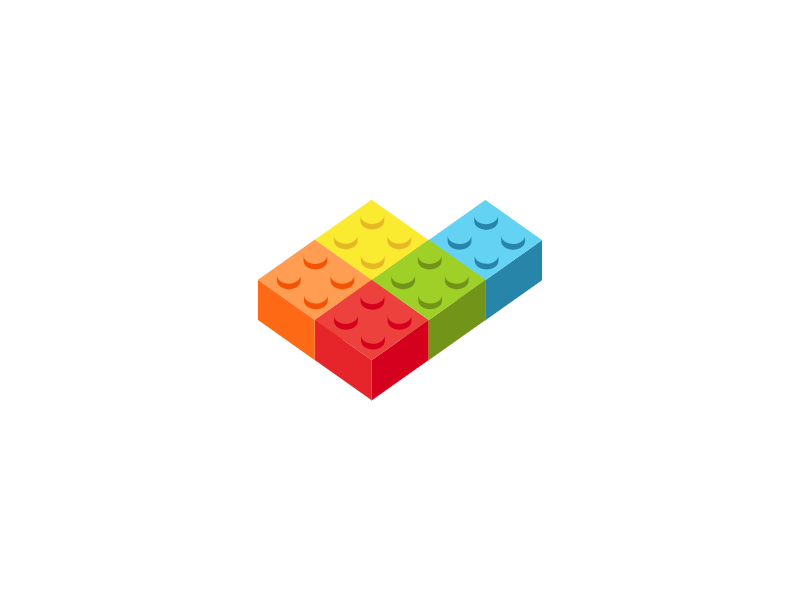
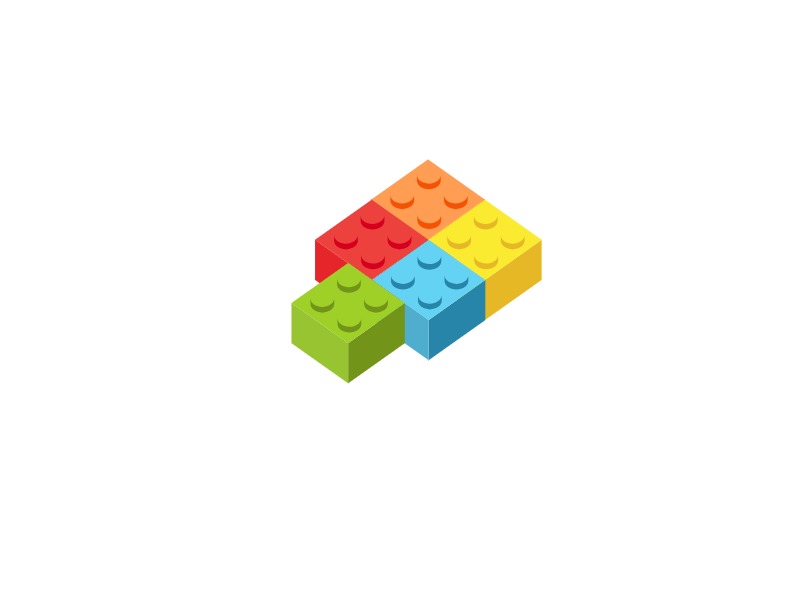
:wrench:

Changed region(s): [[0.3125, 0.27, 0.6875, 0.66]]

diff --git a/packages/skia/src/skia/web/JsiSkottieFactory.ts b/packages/skia/src/skia/web/JsiSkottieFactory.ts
@@ -12,7 +12,7 @@ export class JsiSkottieFactory extends Host implements SkottieFactory {
   }
 
   Make(json: string): SkSkottieAnimation {
-    const animation = this.CanvasKit.MakeAnimation(json);
+    const animation = this.CanvasKit.MakeManagedAnimation(json);
     if (!animation) {
       throw new Error("Failed to create SkottieAnimation");
     }

diff --git a/packages/skia/src/renderer/__tests__/e2e/Skottie.spec.tsx b/packages/skia/src/renderer/__tests__/e2e/Skottie.spec.tsx
@@ -74,7 +74,7 @@ describe("Skottie", () => {
           throw new Error("Failed to create surface");
         }
         const canvas = sur.getCanvas();
-        legoAnimation.seekFrame(1);
+        legoAnimation.seekFrame(41);
         legoAnimation.render(canvas);
         sur.flush();
         return sur.makeImageSnapshot().encodeToBase64();

diff --git a/packages/skia/cpp/api/JsiSkSkottie.h b/packages/skia/cpp/api/JsiSkSkottie.h
@@ -34,7 +34,7 @@ public:
   // #region Methods
   JSI_HOST_FUNCTION(seekFrame) {
     sksg::InvalidationController ic;
-    getObject()->seek(arguments[0].asNumber(), &ic);
+    getObject()->seekFrame(arguments[0].asNumber(), &ic);
     auto bounds = ic.bounds();
     if (count >= 2) {
       auto rect = JsiSkRect::fromValue(runtime, arguments[1]);
